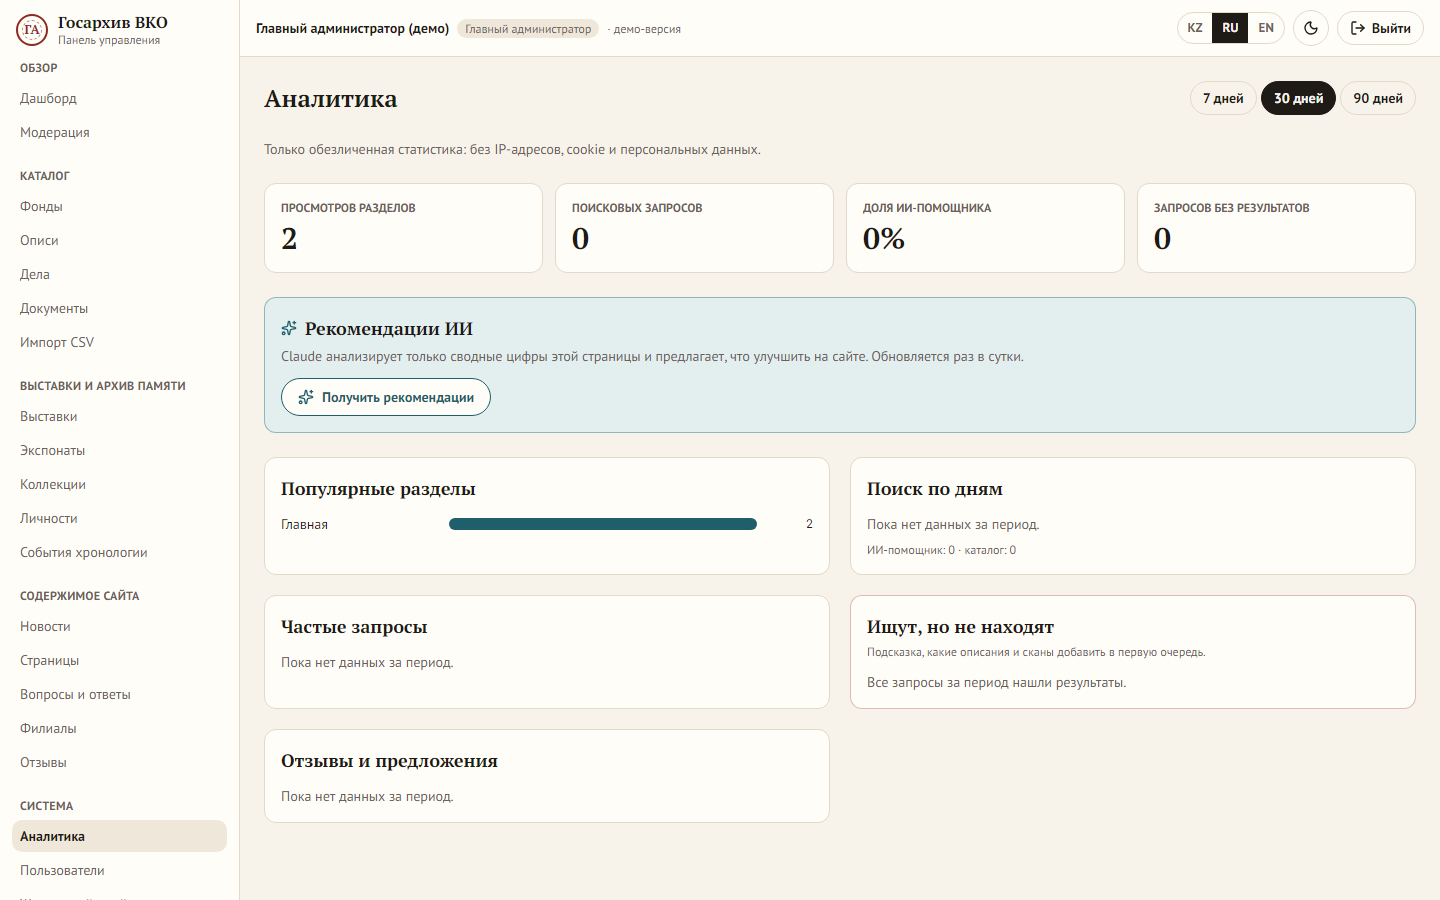
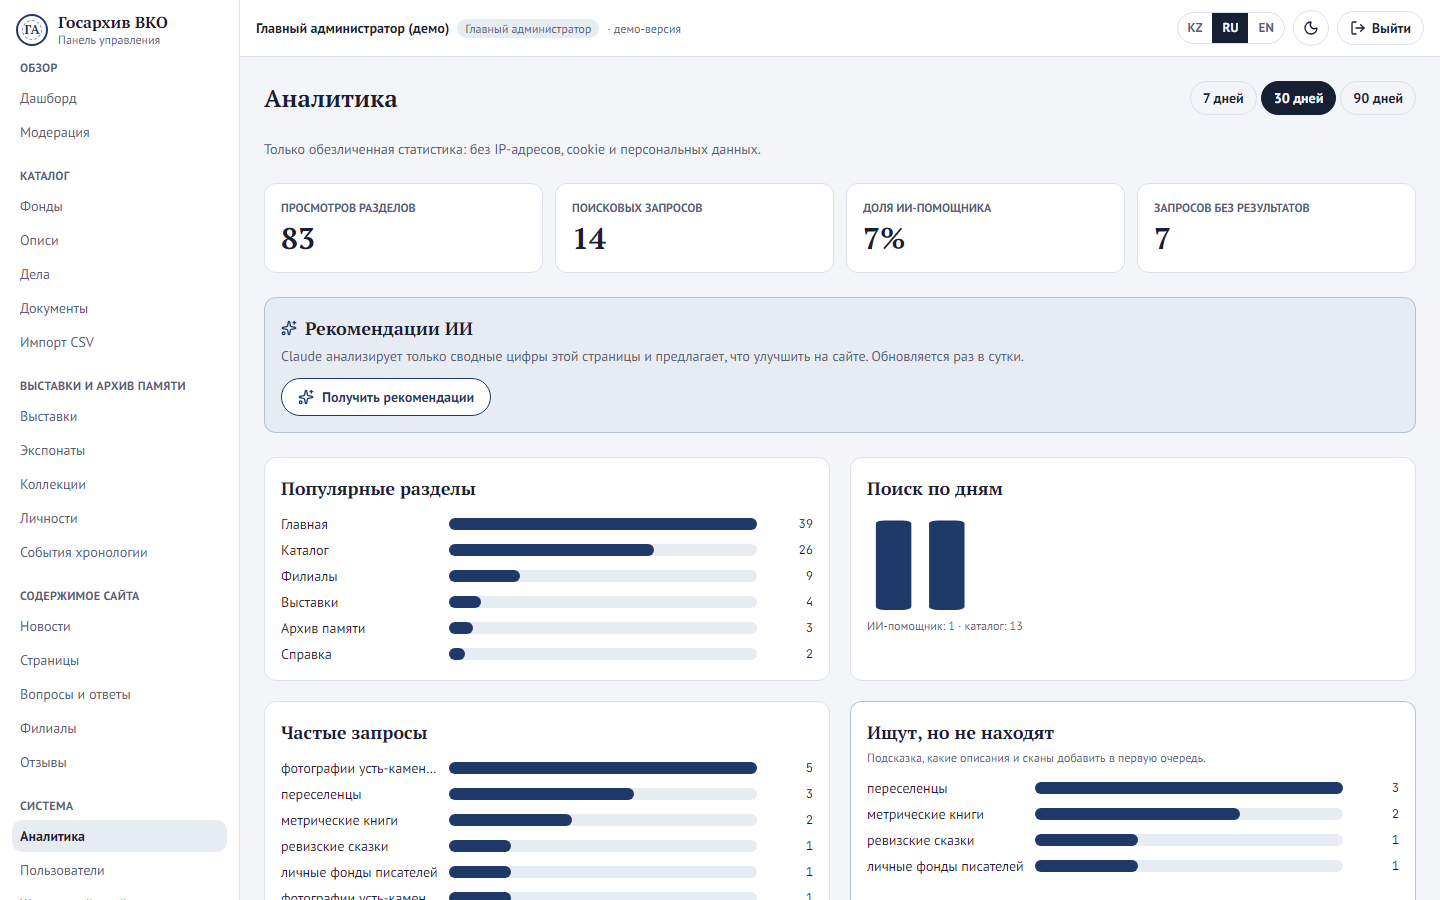
style: синие графики аналитики и новые скриншоты в README
Столбики аналитики и блок рекомендаций ИИ — в синем цвете вместо бронзы.
Скриншоты для README пересняты с новым названием и палитрой.

diff --git a/components/admin/ai-recommendations-panel.tsx b/components/admin/ai-recommendations-panel.tsx
@@ -12,21 +12,21 @@ export function AiRecommendationsPanel({ locale, days }: { locale: string; days:
   const [state, action, pending] = useActionState(recommendationsAction, {} as RecommendationsState);
 
   return (
-    <section aria-labelledby="ai-recs" className="rounded-[12px] border border-accent-2/40 bg-accent-2-soft p-4">
+    <section aria-labelledby="ai-recs" className="rounded-[12px] border border-primary/25 bg-chip p-4">
       <h2 id="ai-recs" className="flex items-center gap-2 font-serif text-lg font-bold">
-        <Sparkles aria-hidden className="size-4 text-accent-2" />
+        <Sparkles aria-hidden className="size-4 text-primary" />
         {t("aiTitle")}
       </h2>
       <p className="mt-1 text-sm text-muted-ink">{t("aiIntro")}</p>
       <form action={action} className="mt-3 flex flex-wrap gap-2">
         <input type="hidden" name="locale" value={locale} />
         <input type="hidden" name="days" value={days} />
-        <button type="submit" disabled={pending} className="inline-flex items-center gap-2 rounded-full border border-accent-2 bg-surface px-4 py-2 text-sm font-bold text-accent-2 disabled:opacity-60">
+        <button type="submit" disabled={pending} className="inline-flex items-center gap-2 rounded-full border border-primary bg-surface px-4 py-2 text-sm font-bold text-primary disabled:opacity-60">
           <Sparkles aria-hidden className="size-4" />
           {pending ? t("aiLoading") : t("aiButton")}
         </button>
         {state.result && (
-          <button type="submit" name="refresh" value="1" disabled={pending} className="rounded-full px-3 py-2 text-sm text-accent-2 underline">
+          <button type="submit" name="refresh" value="1" disabled={pending} className="rounded-full px-3 py-2 text-sm text-primary underline">
             {t("aiRefresh")}
           </button>
         )}

diff --git a/components/admin/bar-chart.tsx b/components/admin/bar-chart.tsx
@@ -11,7 +11,7 @@ export function BarChart({ items, label }: { items: { label: string; value: numb
             {item.label}
           </span>
           <span className="h-3 rounded-full bg-chip" aria-hidden>
-            <span className="block h-3 rounded-full bg-accent-2" style={{ width: `${Math.max(2, (item.value / max) * 100)}%` }} />
+            <span className="block h-3 rounded-full bg-primary" style={{ width: `${Math.max(2, (item.value / max) * 100)}%` }} />
           </span>
           <span className="w-12 text-right font-mono text-xs">{item.value}</span>
         </li>
@@ -30,7 +30,7 @@ export function DailyColumns({ points, label }: { points: { day: string; count: 
       {points.map((p, i) => {
         const h = Math.max(2, (p.count / max) * 56);
         return (
-          <rect key={p.day} x={i * 12 + 2} y={60 - h} width={8} height={h} rx={2} fill="var(--accent-2)">
+          <rect key={p.day} x={i * 12 + 2} y={60 - h} width={8} height={h} rx={2} fill="var(--accent)">
             <title>{`${p.day}: ${p.count}`}</title>
           </rect>
         );
